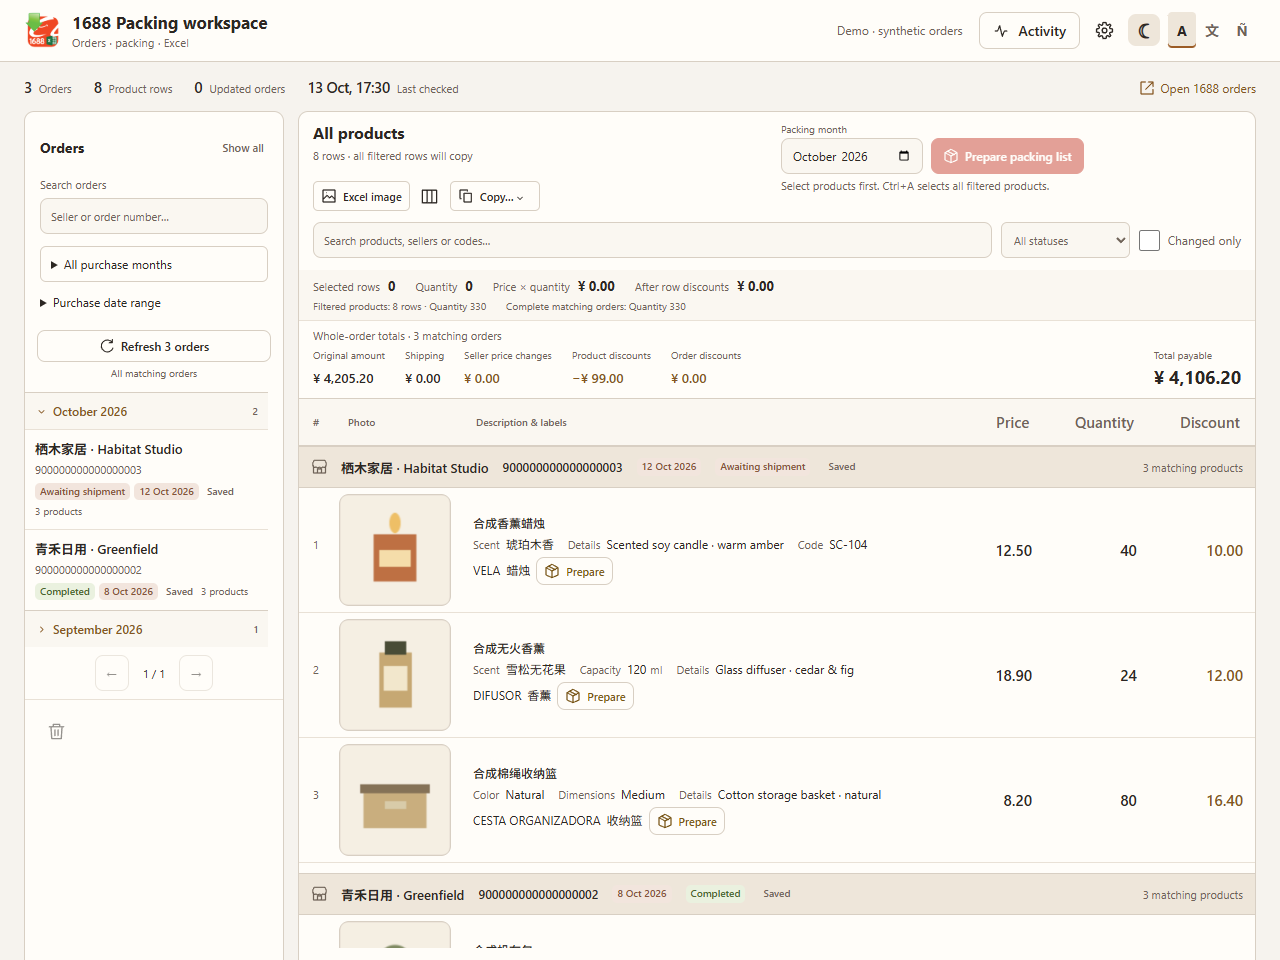
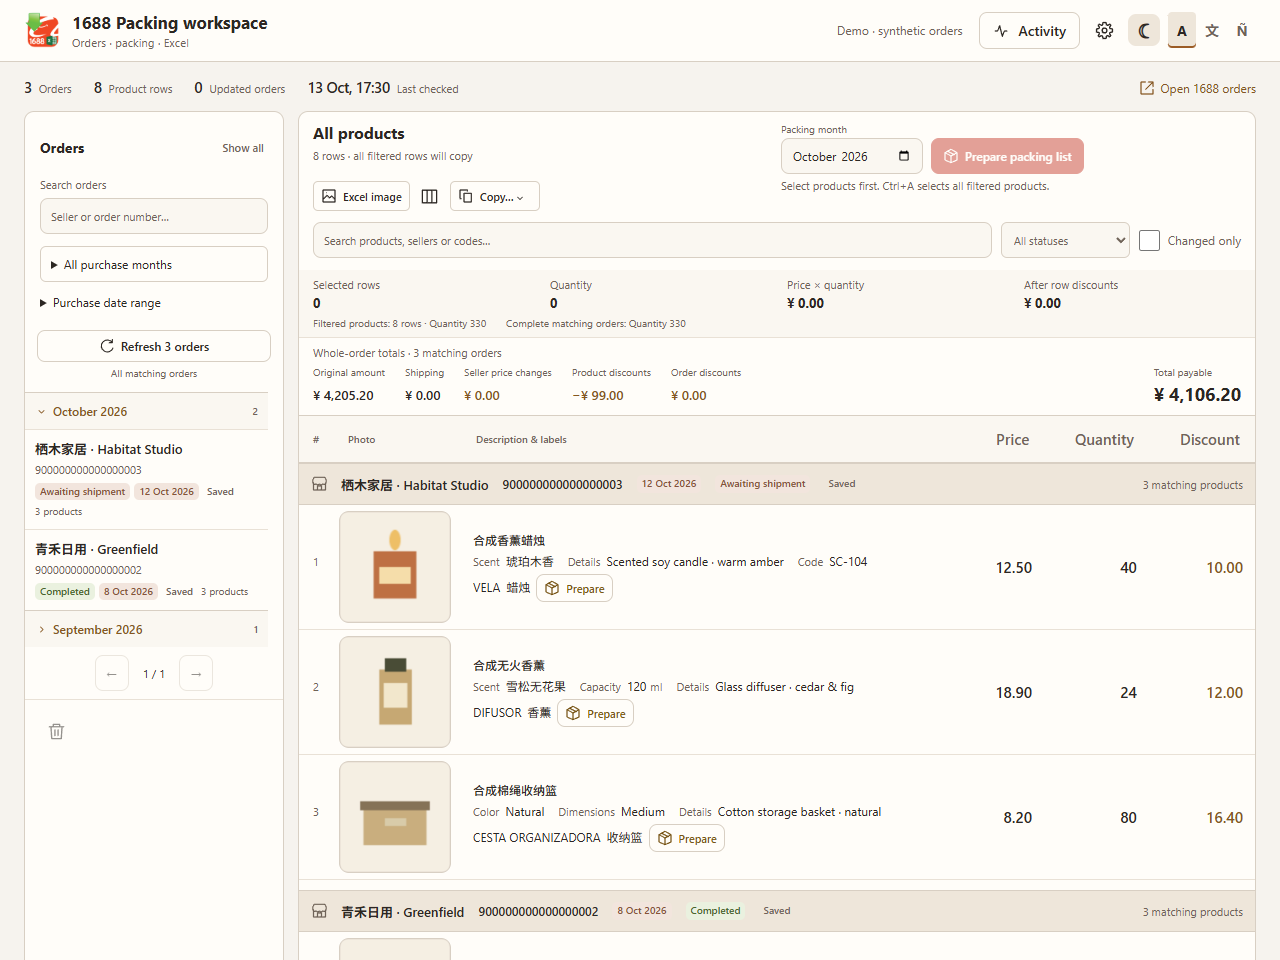
Keep live selection totals stable on narrow screens

diff --git a/src/library.css b/src/library.css
@@ -1846,18 +1846,17 @@ main > .stats {
   background: var(--field);
 }
 .selection-totals-grid {
-  display: flex;
-  flex-wrap: wrap;
-  align-items: baseline;
+  /* Keep each total in its own track as selection changes its digit count. */
+  display: grid;
+  grid-template-columns: repeat(auto-fit, minmax(min(100%, 150px), 1fr));
+  align-items: start;
   gap: 4px 20px;
   margin: 0;
 }
 .selection-totals-grid > div {
-  display: flex;
-  flex-wrap: wrap;
-  align-items: baseline;
-  gap: 4px 8px;
-  min-width: 0;
+  display: grid;
+  gap: 2px;
+  min-inline-size: 0;
 }
 .selection-totals-grid dt {
   color: var(--muted);

diff --git a/CHROMEWEBSTORE.md b/CHROMEWEBSTORE.md
@@ -172,6 +172,8 @@ Draft substance: records, history, notes, pictures, preparation edits/order/chec
 
 - Version 2.6.0 passed source/docs checks, 411 unit tests and the production rebuild. All 216 packaged Chromium cases passed across the main run and focused completion runs after an interruption; six focused Edge checks also passed. Coverage includes persistent image-column layout, localized images/materials, selection frozen during autosave, hover-only photo copying, nonmodal errors, image shortcuts and partial-group selection in both themes. Selection uses subtle fills and check marks without vertical bars; selecting a variant no longer tints its unselected siblings. Focused independent review found no remaining issue after that correction. Synthetic screenshots were refreshed and inspected.
 
+- The initial hosted 2.6.0 run exposed one narrow-screen layout failure after 215 browser cases passed: changing selection added a line to the totals and moved the table. The follow-up gives each selection total a stable responsive column. All three focused language regressions passed with additional 360/375 px widths, alternate font metrics, Select All and clear-selection checks. Light/dark screenshots were regenerated and inspected. Calculations and clipboard output are unchanged, so the native Excel evidence below remains applicable.
+
 - All five 2.6.0 Windows Excel cases passed in disposable workbooks. The selected-row table image retained its exact 2870 × 652 pixels and destination sentinel cell. Barcode size was 40.040 × 19.932 mm and carton size 148.519 × 104.775 mm, within 0.4 mm tolerance. The clipboard was restored and existing workbooks were untouched. The private material audit covered 467 orders and 5,158 rows: 2,486 suggestions, 2,672 unknowns left blank, and 173 compound-material suggestions. Only generic local vocabulary is bundled. Live 1688/installed-extension acceptance and physical printing remain unverified.
 
 - Version 2.5.0 passed source/docs checks, 379 unit tests, the production rebuild, all 197 packaged Chromium tests and 55 focused Edge tests. The new data-helper audit covered all 467 supplied orders and 5,158 rows: all 39 observed attribute labels have English/Spanish translations, while every original description and all 7,028 structured fields remain intact. Recognized sizes/colors use local rules; unfamiliar wording stays unchanged. Focused correctness review found no further issue after the shared gallery-identity and conflict-control corrections. Synthetic screenshots were regenerated and visually checked, including the original-details dialog and 390 px layout.
